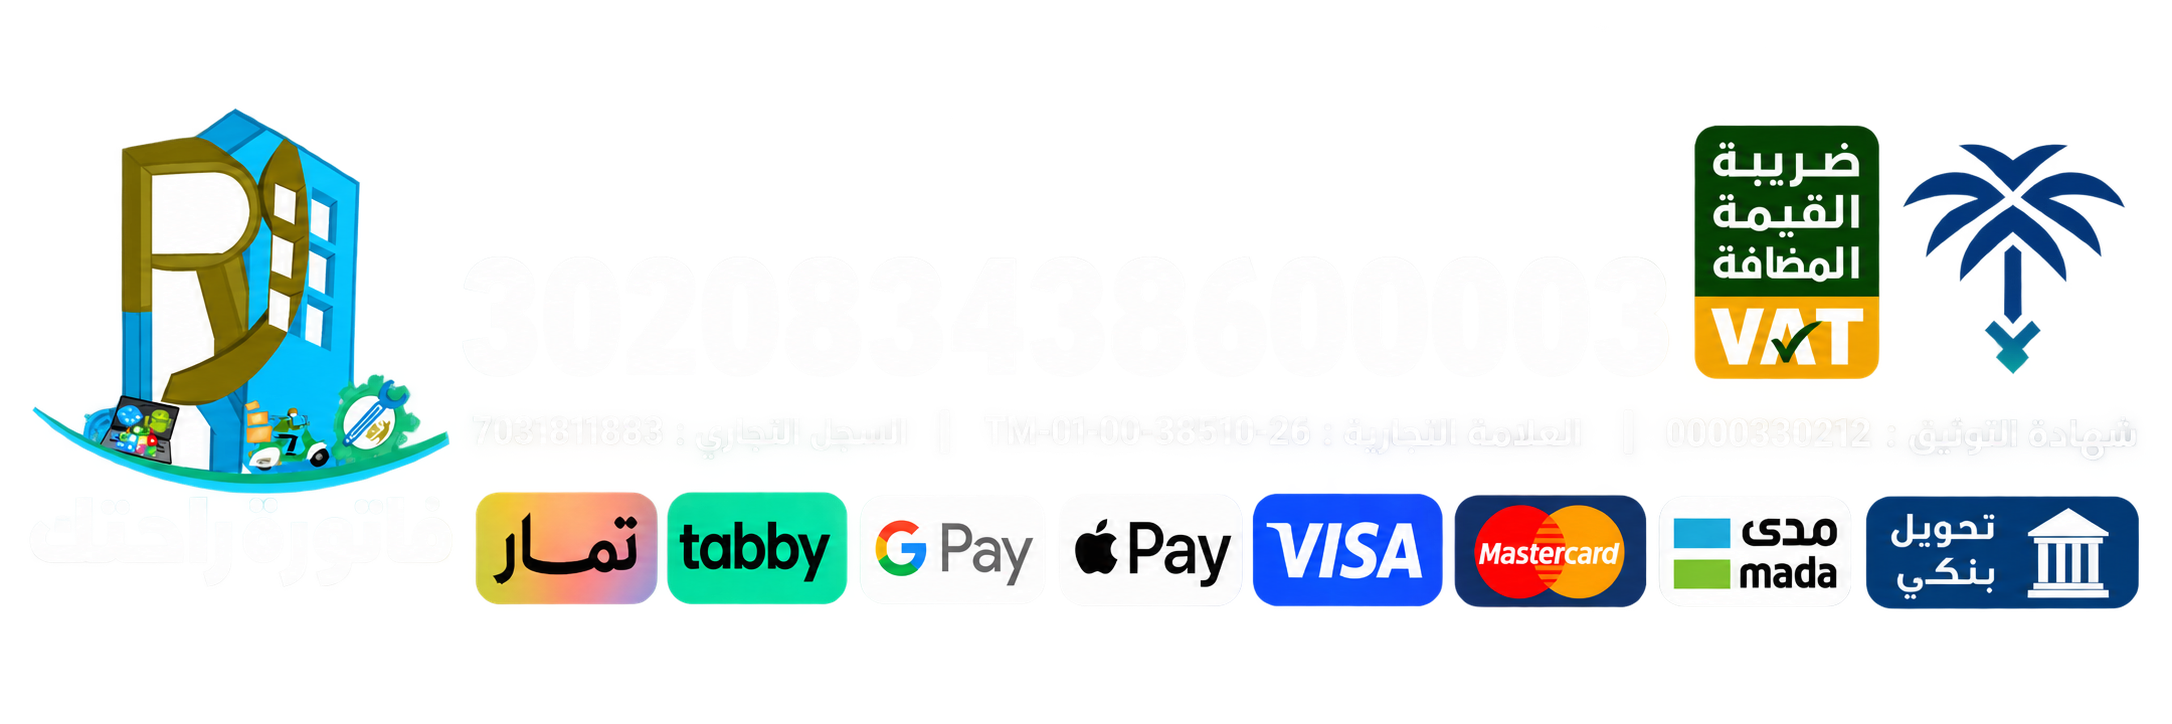
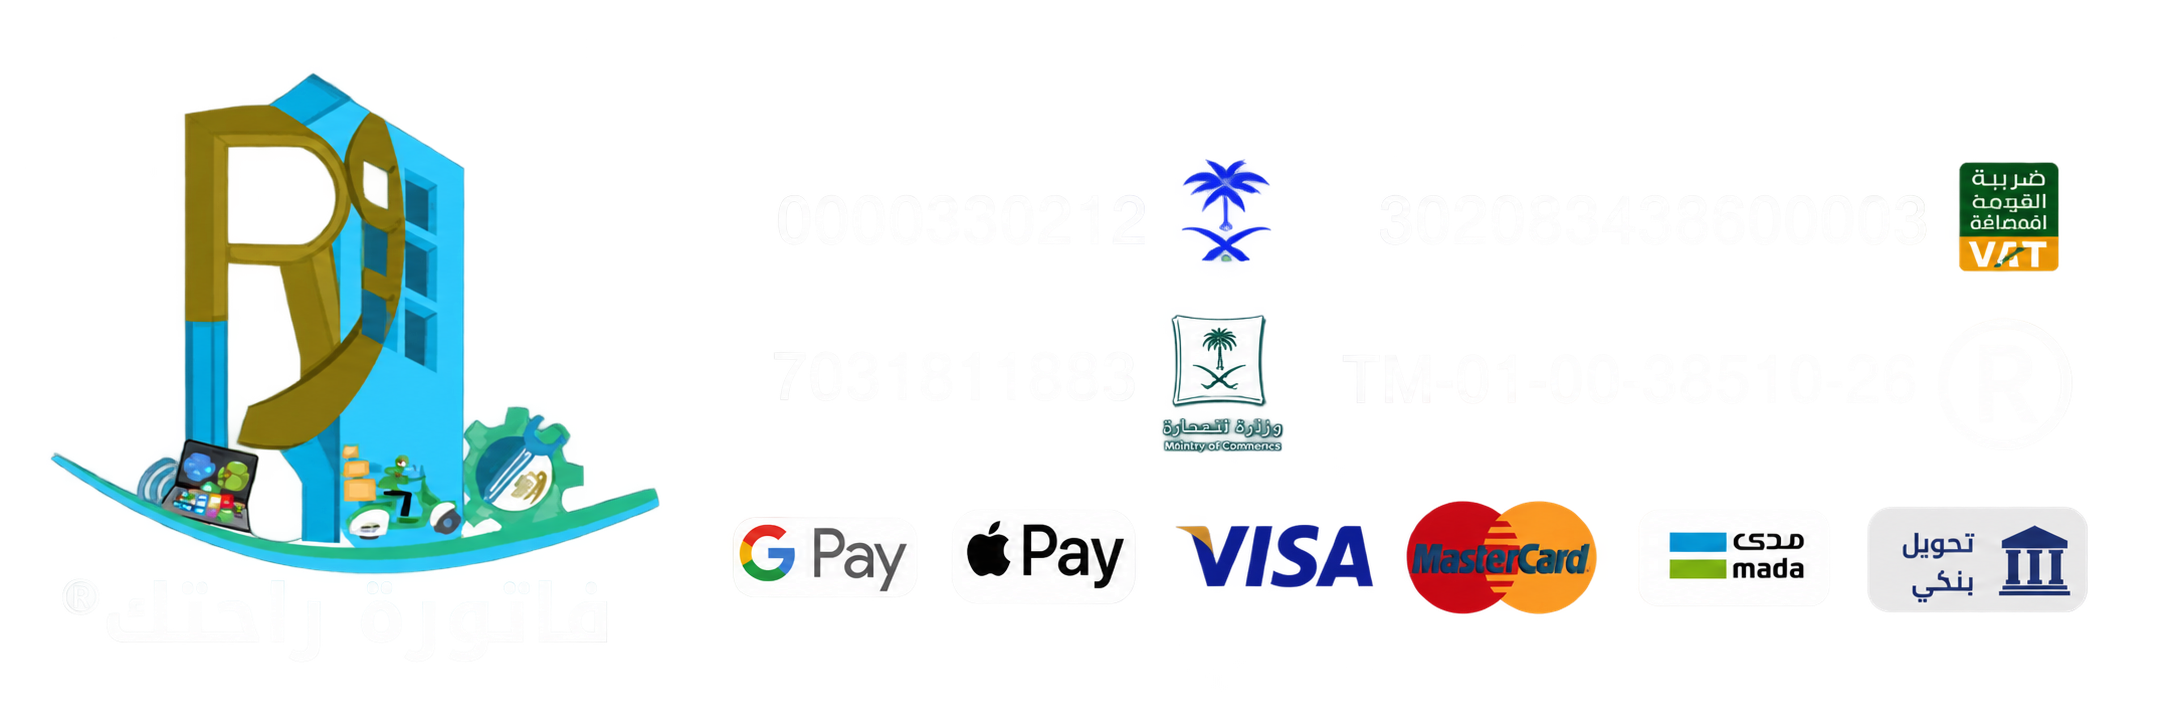
استبدال صورة الفوتر وإرجاع اللوجو

diff --git a/app/site-layout.tsx b/app/site-layout.tsx
@@ -657,7 +657,7 @@ export function SiteLayout({ children }: { children: React.ReactNode }) {
             <div className="lg:col-span-2">
               <div className="flex items-center gap-2.5 mb-4">
                 <div className="brand-logo-frame" style={{ width: 54, height: 54 }}>
-                  <img src="/footer-logo.png" alt={t("brand.name")} className="brand-logo" />
+                  <img src="/logo.png" alt={t("brand.name")} className="brand-logo" />
                 </div>
                 <span className="text-[18px] font-bold text-white">{t("brand.name")}</span>
               </div>
